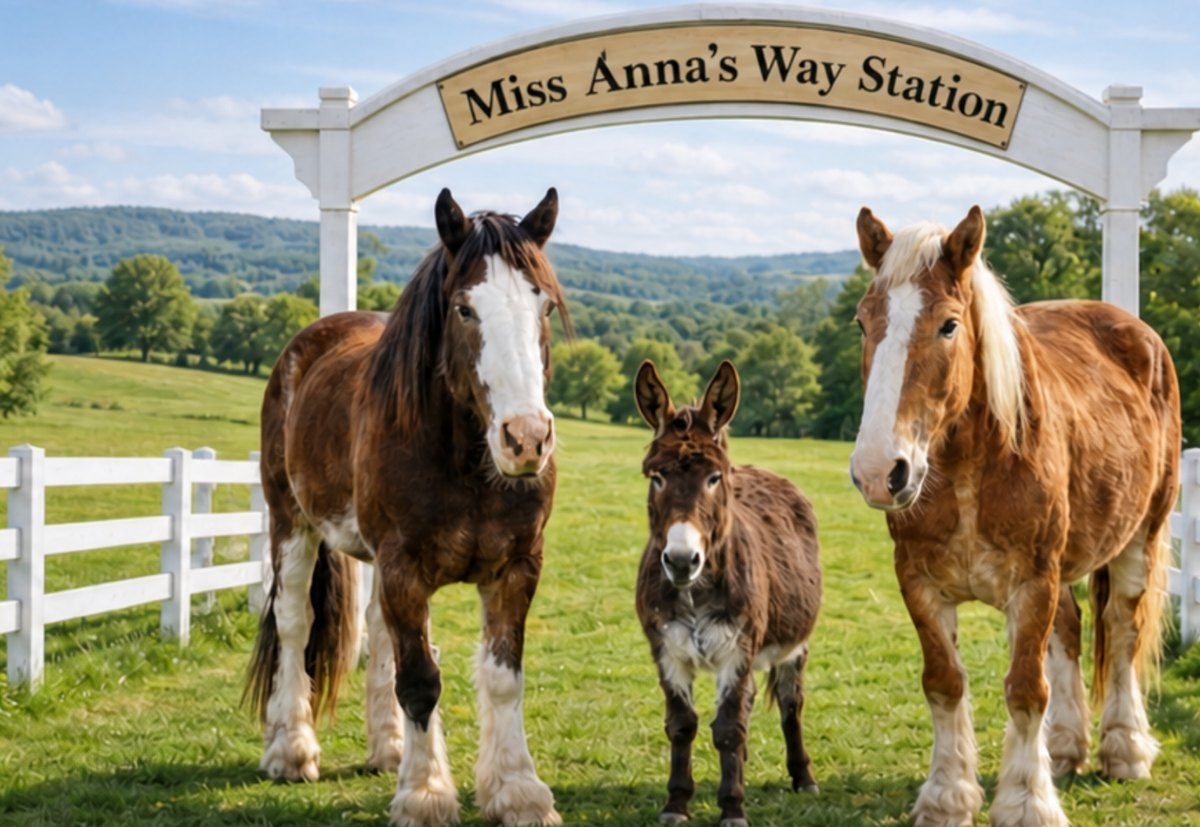
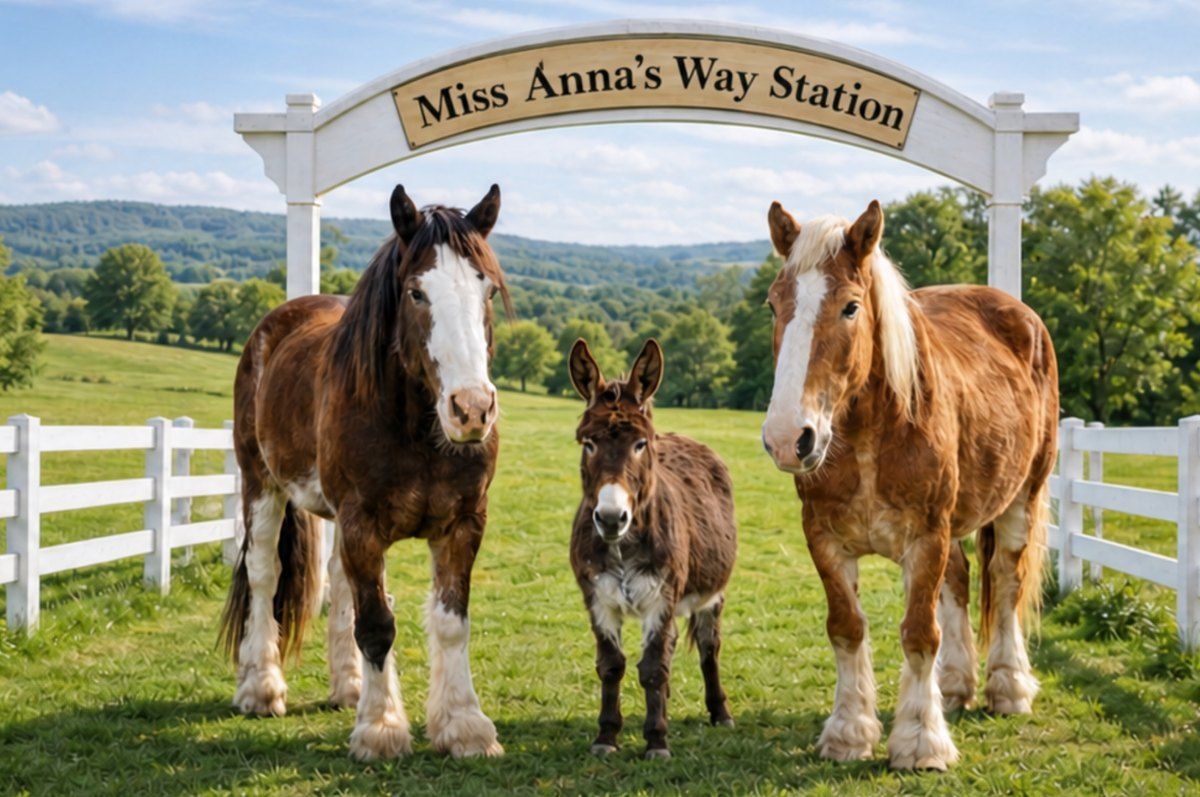
Recrop the hero artwork so the animals' feet are not cut off
The previous crop trimmed the bottom of the picture, which sliced the hooves. The
artwork is now cropped from the left instead, keeping its full height, and the
picture is anchored to the right of its frame - so the trim falls on empty grass
rather than on the animals. On a phone the whole picture shows, uncropped.

diff --git a/assets/style.css b/assets/style.css
@@ -28,8 +28,8 @@ nav.main a:hover{color:var(--sage)}
 .hero{background:var(--sage);color:#fff;padding:40px 0}
 .hero-grid{display:grid;grid-template-columns:minmax(300px,45%) 1fr;gap:36px;align-items:center}
 .hero-art img{display:block;width:100%;height:clamp(260px,30vw,380px);object-fit:cover;
-  object-position:center;border-radius:16px;border:1px solid rgba(255,255,255,.28)}
-@media(max-width:820px){.hero-grid{grid-template-columns:1fr;gap:24px}.hero-art img{height:230px}}
+  object-position:right center;border-radius:16px;border:1px solid rgba(255,255,255,.28)}
+@media(max-width:820px){.hero-grid{grid-template-columns:1fr;gap:24px}.hero-art img{height:auto}}
 .hero h1{color:#fff;font-size:clamp(1.7rem,2.9vw,2.4rem);max-width:20ch}
 .hero p{font-size:1.13rem;max-width:48ch}
 .hero .btn{margin-top:12px;margin-right:10px}

diff --git a/index.html b/index.html
@@ -39,7 +39,7 @@
     <div class="hero-art">
       <img src="assets/photos/hero-art-1200.jpg"
            srcset="assets/photos/hero-art-600.jpg 600w, assets/photos/hero-art-1200.jpg 1200w"
-           sizes="(max-width:820px) 100vw, 55vw" width="1200" height="831"
+           sizes="(max-width:820px) 100vw, 55vw" width="1200" height="797"
            alt="The station's gateway: two horses and a miniature donkey standing in front of a white
            archway with a sign that reads Miss Anna's Way Station">
     </div>
